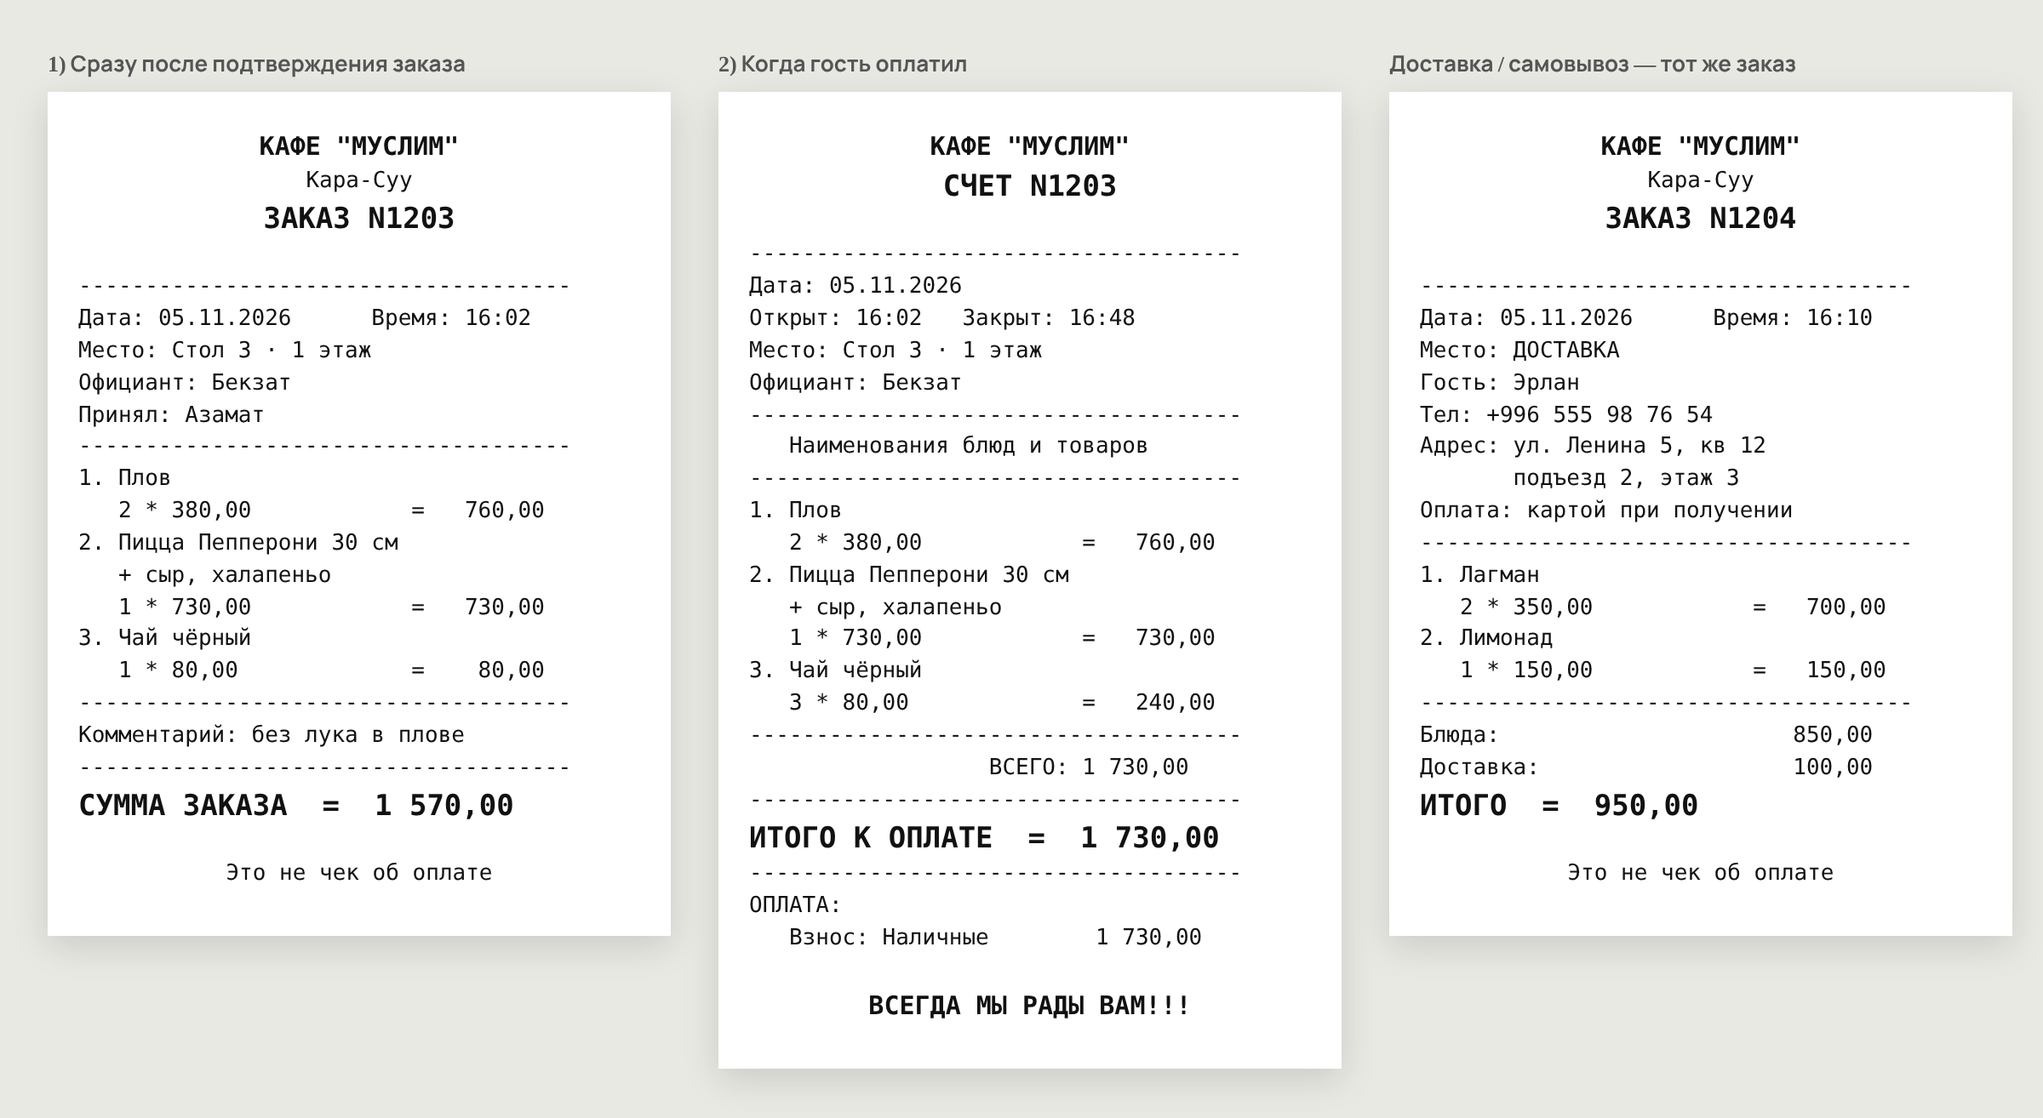
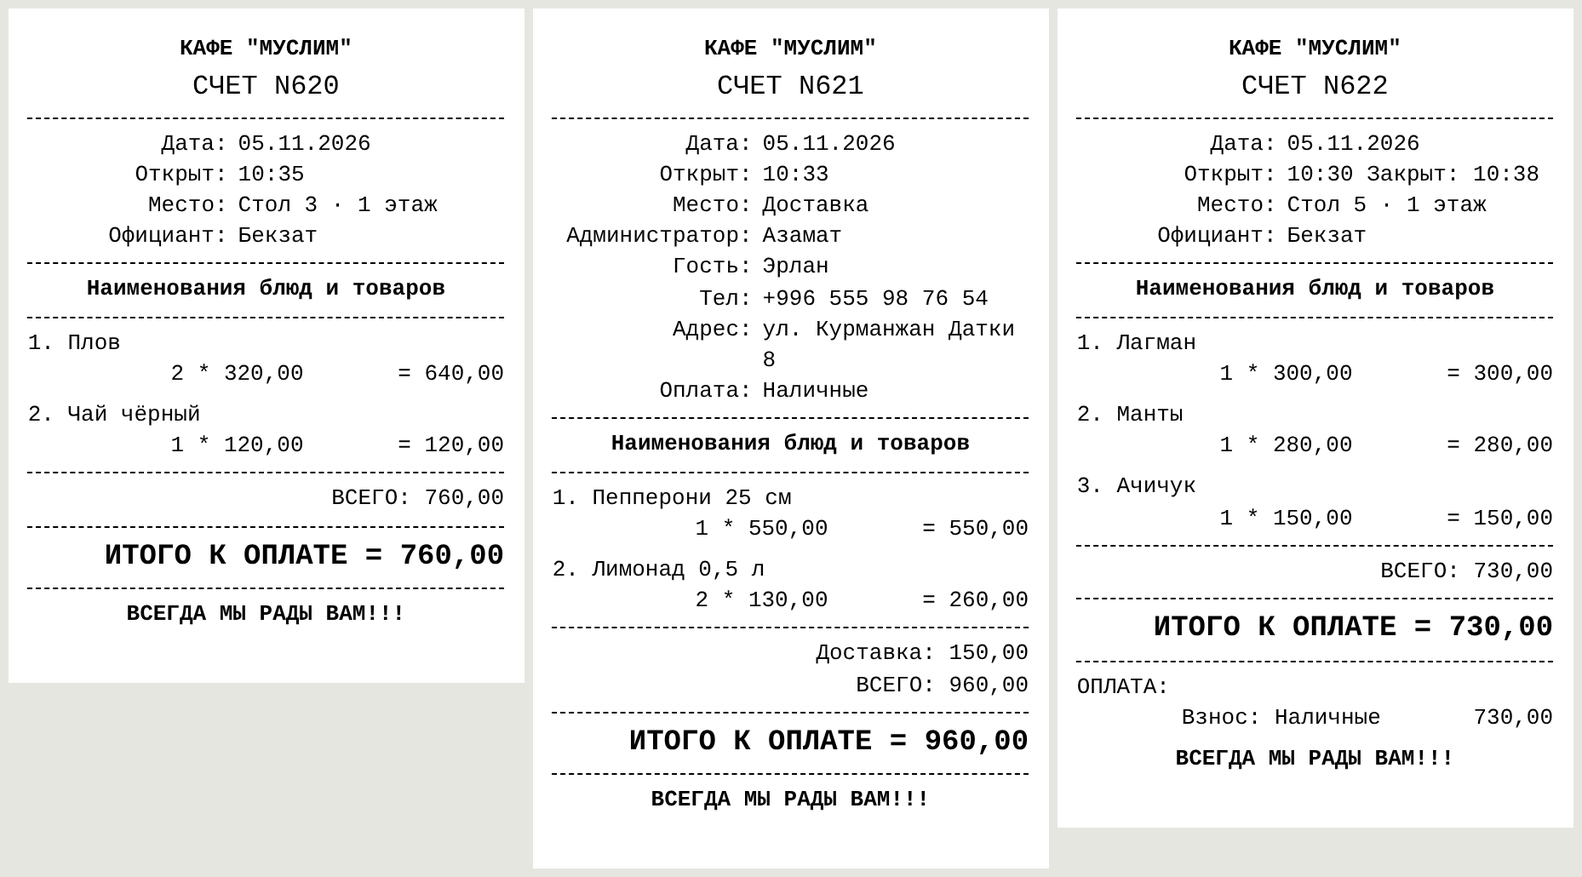
Чеки как у кафе, роль сотрудника на чеке, кнопка Распечатать чек

diff --git a/frontend/dist/admin.js b/frontend/dist/admin.js
@@ -301,7 +301,7 @@
     const title=live?(kind==='delivery'||kind==='pickup'?KIND_NAME[kind]:`${o.table_name||''}${kind==='takeaway'?' · с собой':''}`.trim()||o.kind_display):o.type==='cafe'?`Стол ${o.table}`:o.type==='pickup'?'Самовывоз':'Доставка';
     const items=live?o.items.map(i=>({name:[i.dish_name,i.size_name].filter(Boolean).join(' '),qty:i.quantity})):o.items;
     const actions=live?(o.available_actions||[]):o.status==='new'?[{action:'cooking',label:'Принять'},{action:'cancelled',label:'Отменить',needs_reason:true}]:o.status==='cooking'?[{action:'ready',label:'Готов'},{action:'cancelled',label:'Отменить',needs_reason:true}]:[{action:'completed',label:delivery?'Доставлен':'Выдан'},{action:'cancelled',label:'Отменить',needs_reason:true}];
-    return `<article class="order-card kind-${kind}" style="view-transition-name:order-${esc(String(o.id))}"><div class="order-top"><strong>№${o.number||o.id}</strong><span class="tag kind-tag">${icon(KIND_ICON[kind]||'tables')}${esc(title)}</span><small>${live?`${esc(clock(o.created_at))} · ${esc(o.status_label)}`:o.minutes+' мин'}</small></div>${kind==='takeaway'?'<p class="takeaway-mark">С СОБОЙ — упаковать</p>':''}${orderInfo(o)}<div class="order-items">${items.map(i=>`${esc(i.name)} × ${i.qty}`).join('<br>')}</div>${o.comment||o.note?`<p class="order-note">${esc(o.comment||o.note)}</p>`:''}<div class="order-bottom"><strong>${money(live?o.total:Store.orderTotal(o))}</strong><div class="actions">${actions.map(a=>`<button class="${a.needs_reason||a.action==='reject'?'danger':'primary'}" data-order="${o.id}" data-number="${o.number||o.id}" data-kind="${esc(kind)}" data-action="${esc(a.action)}" data-reason="${Boolean(a.needs_reason)}">${esc(a.label)}</button>`).join('')}${live&&o.status!=='new'?`<button class="secondary ticket-btn" data-order-ticket="${o.id}" title="Чек заказа">🖨 Чек</button>`:''}</div></div></article>`;
+    return `<article class="order-card kind-${kind}" style="view-transition-name:order-${esc(String(o.id))}"><div class="order-top"><strong>№${o.number||o.id}</strong><span class="tag kind-tag">${icon(KIND_ICON[kind]||'tables')}${esc(title)}</span><small>${live?`${esc(clock(o.created_at))} · ${esc(o.status_label)}`:o.minutes+' мин'}</small></div>${kind==='takeaway'?'<p class="takeaway-mark">С СОБОЙ — упаковать</p>':''}${orderInfo(o)}<div class="order-items">${items.map(i=>`${esc(i.name)} × ${i.qty}`).join('<br>')}</div>${o.comment||o.note?`<p class="order-note">${esc(o.comment||o.note)}</p>`:''}<div class="order-bottom"><strong>${money(live?o.total:Store.orderTotal(o))}</strong><div class="actions">${actions.map(a=>`<button class="${a.needs_reason||a.action==='reject'?'danger':'primary'}" data-order="${o.id}" data-number="${o.number||o.id}" data-kind="${esc(kind)}" data-action="${esc(a.action)}" data-reason="${Boolean(a.needs_reason)}">${esc(a.label)}</button>`).join('')}${live&&o.status!=='new'?`<button class="secondary ticket-btn" data-order-print="${o.id}" data-number="${o.number||o.id}" title="Ещё раз напечатать чек заказа на чековом аппарате">🖨 Распечатать чек</button>`:''}</div></div></article>`;
   }
   // ===== Блюда и категории =====
   // Компьютер и планшет: слева категории (порядок, видимость, переименовать, удалить), справа блюда.
@@ -701,7 +701,7 @@
     if(button.dataset.orderTicket){                                                     // чек «ЗАКАЗ» из карточки заказа
       const id=button.dataset.orderTicket,job=await API.request(`/staff/orders/${id}/ticket/`);
       showReceipt(`Чек заказа №${job.payload.number}`,`${esc(job.payload.type||'')} · ${esc(job.payload.place||'')}`,job,`data-order-print="${id}"`);return;}
-    if(button.dataset.orderPrint){await API.request(`/staff/orders/${button.dataset.orderPrint}/print/`,{method:'POST'});toast('Чек заказа отправлен на чековый аппарат');return;}
+    if(button.dataset.orderPrint){await API.request(`/staff/orders/${button.dataset.orderPrint}/print/`,{method:'POST'});toast(`Чек заказа${button.dataset.number?' №'+button.dataset.number:''} отправлен на чековый аппарат`);if(button.closest('dialog'))button.closest('dialog').close();return;}
     if(button.dataset.historyOpen){const h=cache.history?.[Number(button.dataset.historyOpen)];if(!h)return;                 // чек из «Истории оплат»
       if(!h.receipt){toast('Чек не загрузился: перезапустите сайт на сервере (sudo systemctl restart muslim).');return;}
       showReceipt(`Чек · ${h.title}`,`${billTime(h.paid_at)} · ${esc(h.method)}${h.by?` · принял(а) ${esc(h.by)}`:''}`,{kind:'receipt',payload:h.receipt},`data-receipt-copy="${button.dataset.historyOpen}"`);return;}
@@ -733,7 +733,7 @@
     if(button.hasAttribute('data-remove-size')){button.closest('.sizes-row').remove();syncBasePrice();return;}
     if(button.dataset.deleteDish){const id=button.dataset.deleteDish,d=cache.dishes.find(d=>String(d.id)===id);confirm('Удалить блюдо?',`«${d.name}» будет удалено ${live?'с сервера':'из локального меню'}.`,async()=>{if(live){await API.request(`/admin/dishes/${id}/`,{method:'DELETE'});toast(`«${d.name}» удалено`);}else await localChange(s=>{s.menu.dishes=s.menu.dishes.filter(d=>d.id!==id);},'Блюдо удалено');editor.close();await render();});return;}
     if(button.dataset.order){const id=Number(button.dataset.order),action=button.dataset.action,label=button.textContent.trim(),number=button.dataset.number||id;
-      const perform=async reason=>{if(live){const card=button.closest('.order-card');card?.classList.add('is-busy');card?.querySelectorAll('button').forEach(b=>b.disabled=true);let updated;try{updated=await API.orderAction(id,action,reason);}catch(error){card?.classList.remove('is-busy');card?.querySelectorAll('button').forEach(b=>b.disabled=false);throw error;}if(cache.orders&&updated){const rest=cache.orders.filter(o=>o.id!==updated.id);cache.fresh={orders:['completed','cancelled'].includes(updated.status)?rest:cache.orders.map(o=>o.id===updated.id?updated:o),calls:cache.calls||[]};}toast(`Заказ №${number}: ${({claim:'вы взяли его',accept:'подтверждён',reject:'отклонён',cancel:'отменён',cook:'готовится',ready:'готов',send:'в пути'})[action]||label.toLowerCase()}`,button.dataset.kind);}else await localChange(s=>Store.transition(s,id,action),'Статус обновлён');await render(true);};
+      const perform=async reason=>{if(live){const card=button.closest('.order-card');card?.classList.add('is-busy');card?.querySelectorAll('button').forEach(b=>b.disabled=true);let updated;try{updated=await API.orderAction(id,action,reason);}catch(error){card?.classList.remove('is-busy');card?.querySelectorAll('button').forEach(b=>b.disabled=false);throw error;}if(cache.orders&&updated){const rest=cache.orders.filter(o=>o.id!==updated.id);cache.fresh={orders:['completed','cancelled'].includes(updated.status)?rest:cache.orders.map(o=>o.id===updated.id?updated:o),calls:cache.calls||[]};}toast(`Заказ №${number}: ${({claim:'вы взяли его',accept:'подтверждён · чек заказа ушёл на чековый аппарат',reject:'отклонён',cancel:'отменён',cook:'готовится',ready:'готов',send:'в пути'})[action]||label.toLowerCase()}`,button.dataset.kind);}else await localChange(s=>Store.transition(s,id,action),'Статус обновлён');await render(true);};
       if(live&&action==='reject'){const site=['delivery','pickup'].includes(button.dataset.kind);reasonDialog(`Отклонить заказ №${number}?`,reason=>perform(reason),site?'Кафе не смогло принять заказ':'Официант не подтвердил заказ со стола','Отклонить заказ');return;}
       if(button.dataset.reason==='true'){reasonDialog(`Отменить заказ №${number}?`,reason=>perform(reason));}else await perform('');return;
     }

diff --git a/frontend/dist/admin.html b/frontend/dist/admin.html
@@ -1,5 +1,5 @@
 <!doctype html>
-<html lang="ru"><head><meta charset="utf-8"><meta name="viewport" content="width=device-width,initial-scale=1"><meta name="theme-color" content="#92CF16"><title>Муслим — Админ-панель</title><link rel="icon" href="assets/favicon.png?v=4" type="image/png" media="(prefers-color-scheme: light)"><link rel="icon" href="assets/favicon-dark.png?v=4" type="image/png" media="(prefers-color-scheme: dark)"><link rel="icon" href="assets/favicon.svg?v=4" type="image/svg+xml"><link rel="apple-touch-icon" href="assets/apple-touch-icon.png?v=3"><link rel="manifest" href="admin.webmanifest"><meta name="apple-mobile-web-app-capable" content="yes"><meta name="apple-mobile-web-app-title" content="Муслим панель"><link rel="stylesheet" href="admin.css?v=20261121"><script defer src="runtime-config.js"></script><script defer src="tg.js?v=20261121"></script><script defer src="menu.js?v=20261121"></script><script defer src="store.js?v=20261121"></script><script defer src="api.js?v=20261121"></script><script defer src="assets/qrcode.js?v=20261121"></script><script defer src="icons.js?v=20261121"></script><script defer src="notify.js?v=20261121"></script><script defer src="push.js?v=20261121"></script><script defer src="receipt.js?v=20261121"></script><script defer src="admin.js?v=20261121"></script></head>
+<html lang="ru"><head><meta charset="utf-8"><meta name="viewport" content="width=device-width,initial-scale=1"><meta name="theme-color" content="#92CF16"><title>Муслим — Админ-панель</title><link rel="icon" href="assets/favicon.png?v=4" type="image/png" media="(prefers-color-scheme: light)"><link rel="icon" href="assets/favicon-dark.png?v=4" type="image/png" media="(prefers-color-scheme: dark)"><link rel="icon" href="assets/favicon.svg?v=4" type="image/svg+xml"><link rel="apple-touch-icon" href="assets/apple-touch-icon.png?v=3"><link rel="manifest" href="admin.webmanifest"><meta name="apple-mobile-web-app-capable" content="yes"><meta name="apple-mobile-web-app-title" content="Муслим панель"><link rel="stylesheet" href="admin.css?v=20261122"><script defer src="runtime-config.js"></script><script defer src="tg.js?v=20261122"></script><script defer src="menu.js?v=20261122"></script><script defer src="store.js?v=20261122"></script><script defer src="api.js?v=20261122"></script><script defer src="assets/qrcode.js?v=20261122"></script><script defer src="icons.js?v=20261122"></script><script defer src="notify.js?v=20261122"></script><script defer src="push.js?v=20261122"></script><script defer src="receipt.js?v=20261122"></script><script defer src="admin.js?v=20261122"></script></head>
 <body>
 <div id="login-screen" class="login-screen"><section class="login-brand"><a class="brand" href="./"><img class="brand-logo" src="assets/logo-muslim.png" alt="Кафе «Муслим»" width="640" height="118"><small class="brand-sub">Админ-панель</small></a><div><span class="eyebrow">Всё под контролем</span><h1>Меню, заказы и столы<br>— в одном месте</h1><p>Управляйте кафе с компьютера,<br>планшета или телефона.</p></div><small>Муслим · панель кафе</small></section><section class="login-form"><div><h2>Вход</h2><p id="login-description"></p><form id="login-form"><label>Email или логин<input name="username" autocomplete="username" required maxlength="254" placeholder="name@mail.com" autocapitalize="none" spellcheck="false"></label><label>Пароль<input name="password" type="password" autocomplete="current-password" required></label><label class="remember-me"><input type="checkbox" name="remember" value="1">Запомнить меня</label><button class="primary" type="submit">Войти</button><p class="error" id="login-error" role="alert"></p></form><a class="back-link" href="./"><span data-icon="back"></span>Открыть меню для гостей</a></div></section></div>
 <div id="admin-shell" class="admin-shell" hidden><aside class="sidebar"><a class="brand" href="./"><img class="brand-logo" src="assets/logo-muslim.png" alt="Кафе «Муслим»" width="640" height="118"><small class="brand-sub">Админ-панель</small></a><div id="branch-switch-side" class="branch-pill" role="group" aria-label="Филиал" hidden></div><nav id="navigation" aria-label="Разделы панели"></nav><footer><strong id="staff-name">Администратор</strong><small id="staff-role">Демонстрационный режим</small><button id="logout"><span data-icon="logout"></span>Выйти</button></footer></aside><div class="workspace"><div class="environment"><span id="environment-label"></span><button type="button" id="tg-chip" class="tg-chip" hidden></button><button type="button" id="env-more" class="env-more" aria-label="Ещё: Telegram, звук, Push, выход" aria-expanded="false" aria-controls="env-menu"><span data-icon="more"></span></button><div class="environment-actions" id="env-menu"><button type="button" id="notify-toggle" hidden aria-label="Звук уведомлений"></button><button type="button" id="push-toggle" hidden>📲 Push</button><a href="./" target="_blank" rel="noopener">Меню гостей <span data-icon="external"></span></a><button type="button" id="session-logout" aria-label="Выйти из панели"><span data-icon="logout"></span>Выйти</button></div></div><button type="button" id="branch-fab" class="branch-fab" hidden></button><main id="content"></main></div></div>

diff --git a/frontend/dist/index.html b/frontend/dist/index.html
@@ -7,13 +7,13 @@
   <meta name="description" content="Муслим — меню халяль кафе. Выберите блюда, размер пиццы и добавки, соберите свой заказ.">
   <title>Муслим — меню</title>
   <link rel="icon" href="assets/favicon.png?v=4" type="image/png" media="(prefers-color-scheme: light)"><link rel="icon" href="assets/favicon-dark.png?v=4" type="image/png" media="(prefers-color-scheme: dark)"><link rel="icon" href="assets/favicon.svg?v=4" type="image/svg+xml"><link rel="apple-touch-icon" href="assets/apple-touch-icon.png?v=3"><link rel="manifest" href="manifest.webmanifest"><meta name="apple-mobile-web-app-capable" content="yes"><meta name="apple-mobile-web-app-title" content="Муслим">
-  <link rel="stylesheet" href="styles.css?v=20261121">
-  <script defer src="runtime-config.js"></script><script defer src="tg.js?v=20261121"></script>
-  <script defer src="menu.js?v=20261121"></script>
-  <script defer src="store.js?v=20261121"></script>
-  <script defer src="api.js?v=20261121"></script>
-  <script defer src="push.js?v=20261121"></script>
-  <script defer src="app.js?v=20261121"></script>
+  <link rel="stylesheet" href="styles.css?v=20261122">
+  <script defer src="runtime-config.js"></script><script defer src="tg.js?v=20261122"></script>
+  <script defer src="menu.js?v=20261122"></script>
+  <script defer src="store.js?v=20261122"></script>
+  <script defer src="api.js?v=20261122"></script>
+  <script defer src="push.js?v=20261122"></script>
+  <script defer src="app.js?v=20261122"></script>
 </head>
 <body>
   <a class="skip" href="#menu">Перейти к меню</a>

diff --git a/frontend/dist/receipt.js b/frontend/dist/receipt.js
@@ -37,7 +37,7 @@
     const opened=job.kind==='order'?p.time:p.opened;
     const copy=/КОПИЯ/.test(p.title||'');
     return `<div class="c b">КАФЕ "МУСЛИМ"</div><div class="c title">СЧЕТ N${esc(p.number)}</div>${copy?'<div class="c">КОПИЯ</div>':''}${line}`
-      +`<div class="fields">${field('Дата',esc(p.date))}${field('Открыт',esc(opened)+(p.closed?` Закрыт: ${esc(p.closed)}`:''))}${field('Место',esc(p.place))}${field('Официант',esc(p.waiter))}`
+      +`<div class="fields">${field('Дата',esc(p.date))}${field('Открыт',esc(opened)+(p.closed?` Закрыт: ${esc(p.closed)}`:''))}${field('Место',esc(p.place))}${field(esc(p.staff_role||'Официант'),esc(p.waiter||'—'))}`
       +`${field('Гость',esc(p.customer))}${field('Тел',esc(p.phone))}${field('Адрес',esc(p.address))}${field('Курьеру',esc(p.courier_comment))}${!pay?field('Оплата',esc(p.guest_payment)):''}</div>`
       +line+'<div class="c b">Наименования блюд и товаров</div>'+line
       +(p.items||[]).map((it,i)=>`<div class="item"><div>${i+1}. ${esc(it.name)}</div>${it.extras?.length?`<div class="sub">+ ${esc(it.extras.join(', '))}</div>`:''}<div class="qty"><span>${it.qty} * ${sum(it.price)}</span><span>= ${sum(it.sum)}</span></div></div>`).join('')

diff --git a/apps/orders/billing.py b/apps/orders/billing.py
@@ -22,6 +22,19 @@ THANKS = "ВСЕГДА МЫ РАДЫ ВАМ!!!"   # подпись внизу ч
 
 # ===================== ЧТО ПЕЧАТАТЬ =====================
 
+# Как называть роль на чеке: вместо «Официант:» — роль того, кто обслужил
+RECEIPT_ROLES = {"programmer": "Программист", "chef": "Шеф", "admin": "Администратор", "cashier": "Кассир",
+                 "waiter": "Официант", "courier": "Курьер", "cook": "Повар"}
+
+
+def _staff_line(*users) -> dict:
+    """Первый, кто есть: {"staff_role": "Официант", "waiter": "Бекзат"} — на чеке «Официант: Бекзат»."""
+    user = next((u for u in users if u), None)
+    if not user:
+        return {"staff_role": "Администратор", "waiter": ""}
+    return {"staff_role": RECEIPT_ROLES.get(user.role, "Сотрудник"), "waiter": _person(user)}
+
+
 def _person(user) -> str:
     """Имя сотрудника для чека."""
     return (user.get_full_name() or user.username) if user else ""
@@ -74,7 +87,7 @@ def order_payload(order) -> dict:
         "place": _place(order), "kind": order.kind,
         "type": {Order.Kind.HALL: "В КАФЕ", Order.Kind.TAKEAWAY: "С СОБОЙ",
                  Order.Kind.DELIVERY: "ДОСТАВКА", Order.Kind.PICKUP: "САМОВЫВОЗ"}.get(order.kind, ""),   # крупно на чеке
-        "waiter": _person(order.claimed_by) or _person(order.accepted_by) or "Администратор",   # «Официант:» на чеке
+        **_staff_line(order.claimed_by, order.accepted_by),           # «Официант: Бекзат» / «Администратор: Азамат»
         "accepted_by": _person(order.accepted_by),
         "takeaway": order.kind == Order.Kind.TAKEAWAY,                       # «УПАКОВАТЬ С СОБОЙ»
         "items": [_line(item) for item in order.items.all()],
@@ -107,11 +120,13 @@ def bill_payload(orders, payment=None) -> dict:
     opened = timezone.localtime(first.created_at)
     closed = timezone.localtime()
     waiter = next((o.claimed_by for o in orders if o.claimed_by_id), None)
+    accepted = next((o.accepted_by for o in orders if o.accepted_by_id), None)
+    paid_by = next((o.paid_by for o in orders if o.paid_by_id), None)
     data = {
         "title": "СЧЕТ", "number": first.id, "branch": first.branch.name,
         "date": f"{opened:%d.%m.%Y}", "opened": f"{opened:%H:%M}",
         "place": _place(first) if len(orders) == 1 or at_table(first) else "Несколько заказов",
-        "waiter": _person(waiter) or "Администратор",
+        **_staff_line(waiter, accepted, paid_by),                       # кто обслужил: официант, иначе кто принял / оплатил
         "orders": [o.id for o in orders],
         "items": _merged_lines(orders),
         "subtotal": sum(o.subtotal for o in orders),
